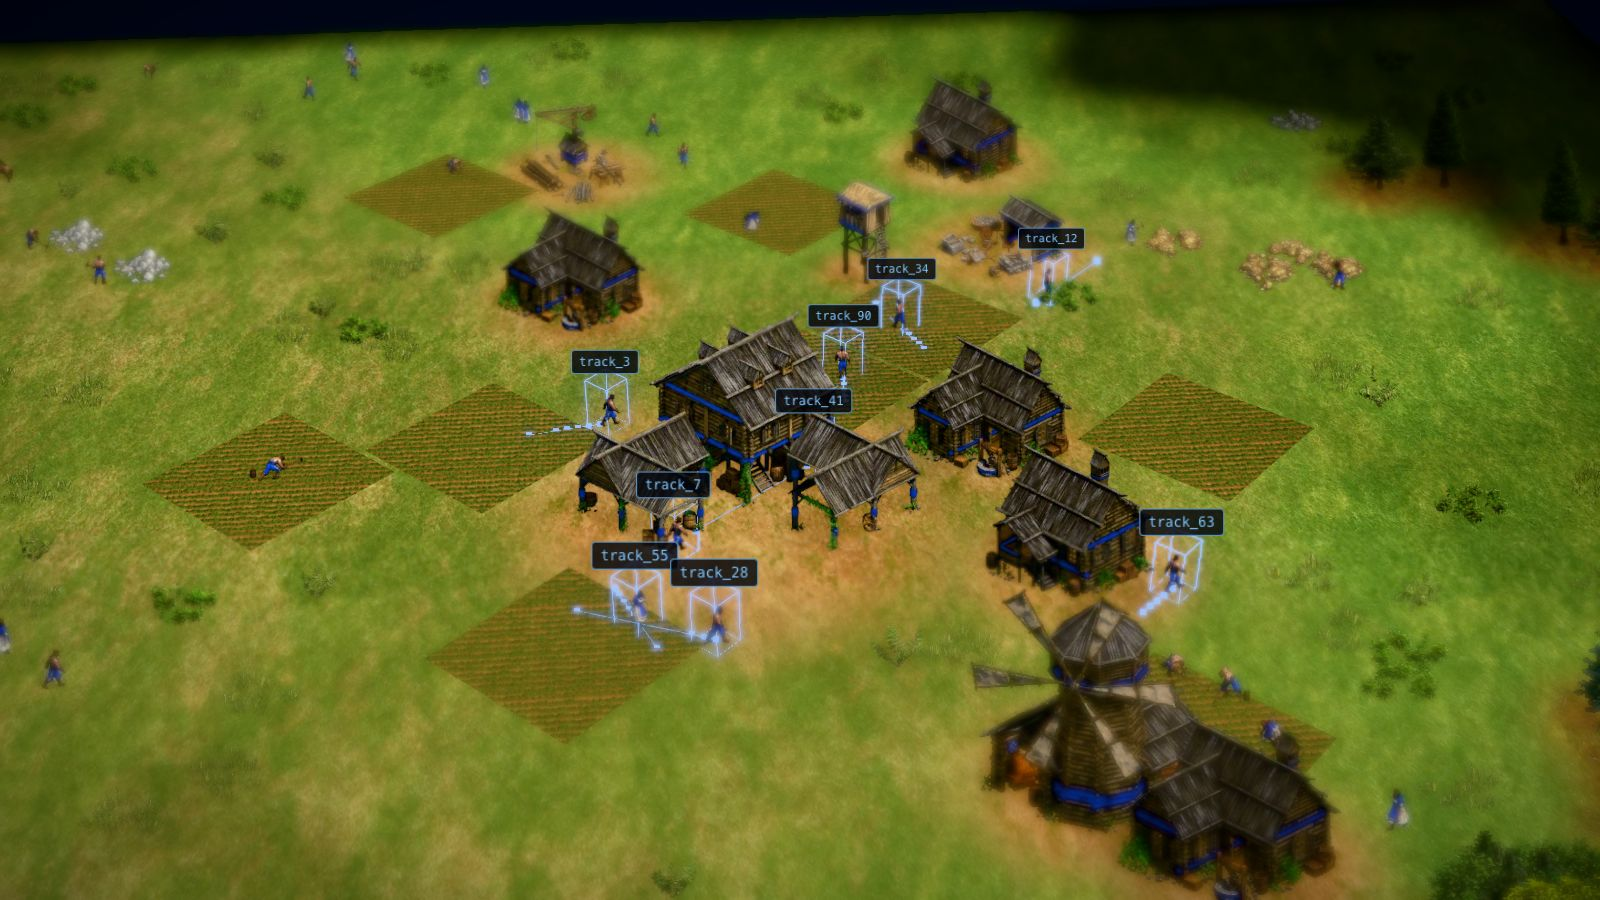
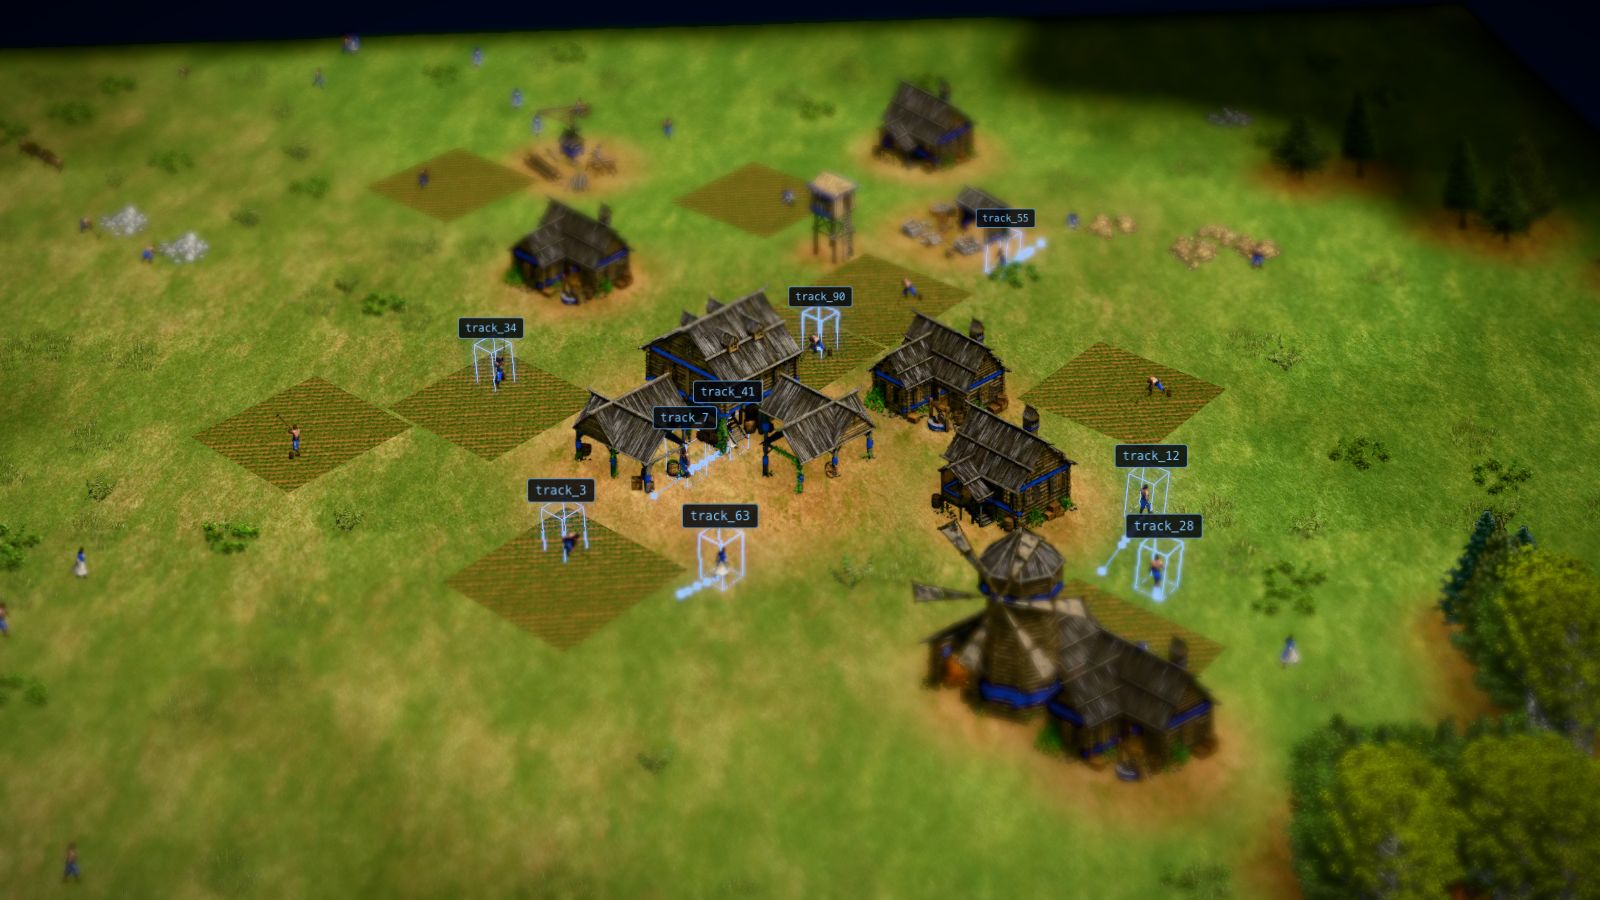
fix(landing): one farmer on each farm
Villagers took up farming when a farm was within reach, so some farms had two
or three farmers and others none. Each farm now takes the nearest villager not
already chopping or mining, who works it from a spot on the field. Any other
villager detected on a field steps just off its edge, and walking routes go
around fields.

diff --git a/apps/landing/src/components/walkthrough/scene/world.ts b/apps/landing/src/components/walkthrough/scene/world.ts
@@ -272,7 +272,7 @@ export function createWorld(layout: Layout, textures: WorldTextures, meta: Sprit
   const STRIDE = 1.3; // tiles per full walk cycle
   const PAUSE = 1.1; // seconds standing at each end
   type Route = { ax: number; az: number; bx: number; bz: number; length: number; offset: number };
-  type Worker = { handle: SpriteHandle; base: string; x: number; z: number; walk: boolean; route: Route | null; stand: boolean; phase: number };
+  type Worker = { handle: SpriteHandle; base: string; x: number; z: number; walk: boolean; route: Route | null; stand: boolean; farmer: boolean; phase: number };
 
   // Routes avoid buildings, fields, trees and mines; prefer heading to or from the
   // Town Center, as villagers carrying goods do.
@@ -299,24 +299,58 @@ export function createWorld(layout: Layout, textures: WorldTextures, meta: Sprit
     }
     return null;
   };
-  const workers: Worker[] = layout.placements
-    .filter((p) => p.kind === "villager")
-    .map((v, i) => {
-      const gender = i % 3 === 0 ? "f" : "m";
-      const target = nearest(v, ["tree", "mine", "farm"]);
-      let task = "walk";
-      if (target.place && target.distance < 1.8) {
-        task = target.place.kind === "tree" ? "chop" : target.place.kind === "mine" ? "mine" : "farm";
-      }
-      const towards = target.place ? Math.atan2(target.place.z - v.z, target.place.x - v.x) : 0;
-      const facing = nearestWorkFacing(facingFor(Math.cos(towards), Math.sin(towards)));
-      const route = task === "walk" ? routeFrom(v.x, v.z, i) : null;
-      const base = task === "walk" ? `vil${gender}_walk` : `vil${gender}_${task}_d${facing}`;
-      // A walker with nowhere clear to go stands, facing the viewer, rather than
-      // walking on the spot.
-      const handle = sprites.add(task === "walk" ? `${base}_d4` : base, v.x, 0, v.z, i * 3);
-      return { handle, base, x: v.x, z: v.z, walk: route !== null, route, stand: task === "walk" && route === null, phase: i * 0.77 };
-    });
+  // Every farm has exactly one farmer, as in the game: each farm takes the nearest
+  // villager not already chopping or mining, who works it from a spot on the field.
+  const villagers = layout.placements.filter((p) => p.kind === "villager");
+  const farms = layout.placements.filter((p) => p.kind === "farm");
+  const gathering = (v: Placement) => nearest(v, ["tree", "mine"]).distance < 1.8;
+  const farmerOf = new Map<Placement, Placement>();
+  const pairs = farms
+    .flatMap((f) => villagers.map((v) => ({ f, v, d: Math.hypot(f.x - v.x, f.z - v.z) + (gathering(v) ? 100 : 0) })))
+    .sort((a, b) => a.d - b.d);
+  const takenFarms = new Set<Placement>();
+  for (const { f, v } of pairs) {
+    if (takenFarms.has(f) || farmerOf.has(v)) continue;
+    takenFarms.add(f);
+    farmerOf.set(v, f);
+  }
+
+  const workers: Worker[] = villagers.map((v, i) => {
+    const gender = i % 3 === 0 ? "f" : "m";
+    const farm = farmerOf.get(v);
+    if (farm) {
+      // A spot a third of the way from the centre to a corner, facing across the field.
+      const corner = (i * 3 + 1) % 4;
+      const ox = (corner & 1 ? 1 : -1) * farm.size * 0.17;
+      const oz = (corner & 2 ? 1 : -1) * farm.size * 0.17;
+      const facing = nearestWorkFacing(facingFor(-ox, -oz));
+      const base = `vil${gender}_farm_d${facing}`;
+      const handle = sprites.add(base, farm.x + ox, 0, farm.z + oz, i * 3);
+      return { handle, base, x: farm.x + ox, z: farm.z + oz, walk: false, route: null, stand: false, farmer: true, phase: i * 0.77 };
+    }
+    // Fields belong to their farmers: anyone else detected on one steps just off its
+    // nearest edge, and routes from there go around it.
+    const spot = { ...v };
+    for (const f of farms) {
+      const reach = f.size / 2 + 0.35;
+      const dx = spot.x - f.x;
+      const dz = spot.z - f.z;
+      if (Math.abs(dx) >= reach || Math.abs(dz) >= reach) continue;
+      if (reach - Math.abs(dx) < reach - Math.abs(dz)) spot.x = f.x + Math.sign(dx || 1) * reach;
+      else spot.z = f.z + Math.sign(dz || 1) * reach;
+    }
+    const target = nearest(spot, ["tree", "mine"]);
+    let task = "walk";
+    if (target.place && target.distance < 1.8) task = target.place.kind === "tree" ? "chop" : "mine";
+    const towards = target.place ? Math.atan2(target.place.z - spot.z, target.place.x - spot.x) : 0;
+    const facing = nearestWorkFacing(facingFor(Math.cos(towards), Math.sin(towards)));
+    const route = task === "walk" ? routeFrom(spot.x, spot.z, i) : null;
+    const base = task === "walk" ? `vil${gender}_walk` : `vil${gender}_${task}_d${facing}`;
+    // A walker with nowhere clear to go stands, facing the viewer, rather than
+    // walking on the spot.
+    const handle = sprites.add(task === "walk" ? `${base}_d4` : base, spot.x, 0, spot.z, i * 3);
+    return { handle, base, x: spot.x, z: spot.z, walk: route !== null, route, stand: task === "walk" && route === null, farmer: false, phase: i * 0.77 };
+  });
   const animals = layout.placements
     .filter((p) => p.kind === "animal")
     .map((a, i) => {
@@ -374,6 +408,13 @@ export function createWorld(layout: Layout, textures: WorldTextures, meta: Sprit
     sprites.update(camera, s.light);
   }
 
+  /** Debug: per farm, the farmers assigned and every villager standing on it now. */
+  const farmCheck = () =>
+    farms.map((f) => ({
+      farmers: workers.filter((w) => w.farmer && Math.abs(w.x - f.x) < f.size / 2 && Math.abs(w.z - f.z) < f.size / 2).length,
+      standing: workers.filter((w) => Math.abs(w.handle.anchor.x - f.x) < f.size / 2 && Math.abs(w.handle.anchor.z - f.z) < f.size / 2).length,
+    }));
+
   /** Villagers the Track chapter can follow: live anchors, and a way to set one walking
    * (villagers walk between their work and the Town Center), which shows its trail. */
   const tracked = workers.map((w) => ({
@@ -382,7 +423,8 @@ export function createWorld(layout: Layout, textures: WorldTextures, meta: Sprit
       return w.walk;
     },
     walk() {
-      if (w.walk) return;
+      // Farmers stay on their fields.
+      if (w.walk || w.farmer) return;
       const route = routeFrom(w.x, w.z, Math.round(w.phase * 13));
       if (!route) return;
       w.walk = true;
@@ -392,5 +434,5 @@ export function createWorld(layout: Layout, textures: WorldTextures, meta: Sprit
     },
   }));
 
-  return { group, update, center: layout.center, tracked };
+  return { group, update, center: layout.center, tracked, farmCheck };
 }

diff --git a/apps/landing/src/components/walkthrough/scene/index.ts b/apps/landing/src/components/walkthrough/scene/index.ts
@@ -329,7 +329,7 @@ export async function mountScene({ view, stage, assets }: MountOptions): Promise
       debugPose = p;
     },
     info() {
-      return { calls: renderer.info.render.calls, triangles: renderer.info.render.triangles, mindScale, gameSize, poses, followed: followed.map((t) => [t.anchor.x, t.anchor.z, t.walking]) };
+      return { calls: renderer.info.render.calls, triangles: renderer.info.render.triangles, mindScale, gameSize, poses, followed: followed.map((t) => [t.anchor.x, t.anchor.z, t.walking]), farms: world.farmCheck() };
     },
   };
 
